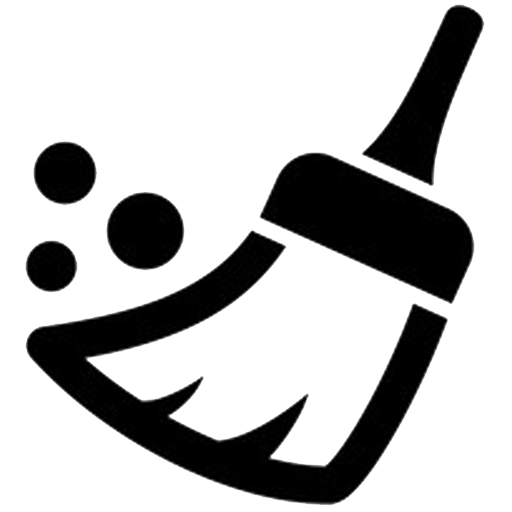
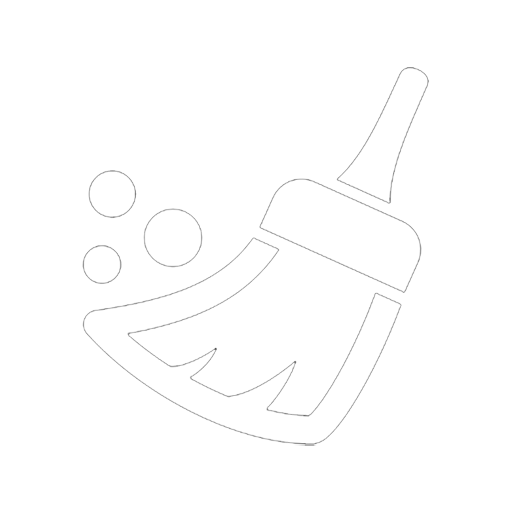
audio

diff --git a/src/routes/text-to-speech.ts b/src/routes/text-to-speech.ts
@@ -1,0 +1,32 @@
+// Create a new file named text-to-speech.ts in the $lib folder
+
+// Import the SpeechSynthesis API
+const { speechSynthesis, SpeechSynthesisUtterance } = window;
+
+export async function speakText(text: string): Promise<void> {
+  return new Promise<void>((resolve, reject) => {
+    // Create a new SpeechSynthesisUtterance
+    const utterance = new SpeechSynthesisUtterance(text);
+
+    // Set any additional options for the utterance, if needed
+    // utterance.volume = 1;
+    // utterance.rate = 1;
+    // utterance.pitch = 1;
+
+    // Event listeners for when speech starts and ends
+    utterance.onstart = () => console.log('Speech started');
+    utterance.onend = () => {
+      console.log('Speech ended');
+      resolve();
+    };
+
+    // Event listener for any errors during speech
+    utterance.onerror = (event) => {
+      console.error('Speech error:', event.error);
+      reject(event.error);
+    };
+
+    // Add the utterance to the speechSynthesis queue and start speaking
+    speechSynthesis.speak(utterance);
+  });
+}

diff --git a/src/routes/+page.svelte b/src/routes/+page.svelte
@@ -184,6 +184,10 @@
       <button type="button" class="btn btn-accent" on:click={clearChat}>
         <img src="./clear.png" alt="Clear Chat" />
       </button>
+      <button type="button" class="btn btn-accent" on:click={readOutLoud}>
+        <img src="./audio.png" alt="Read Out Loud" />
+      </button>
+
       <div class="relative flex-grow">
         <input type="text" class="input input-bordered w-full pr-10" bind:value={query} />
         <button type="submit" class="btn btn-accent absolute right-1 top-1/2 transform -translate-y-1/2">

diff --git a/svelte.config.js b/svelte.config.js
@@ -1,6 +1,7 @@
 import preprocess from "svelte-preprocess";
 import adapter from '@sveltejs/adapter-vercel';
 import { vitePreprocess } from '@sveltejs/kit/vite';
+import { speakText } from '$lib/text-to-speech';
 
 /** @type {import('@sveltejs/kit').Config} */
 const config = {
